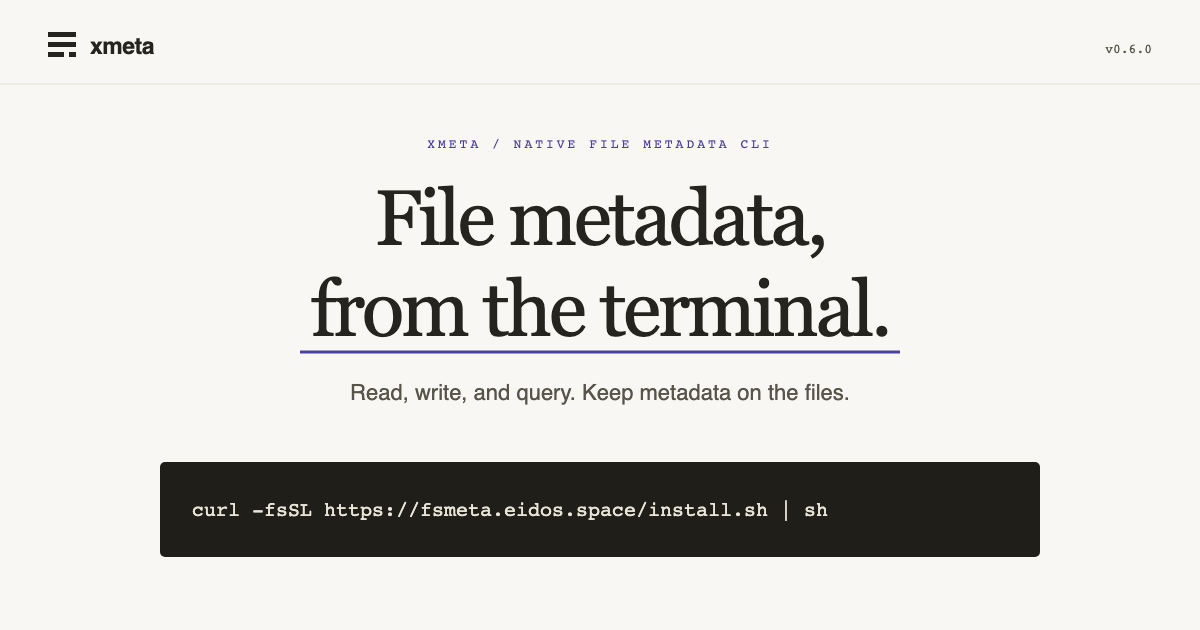
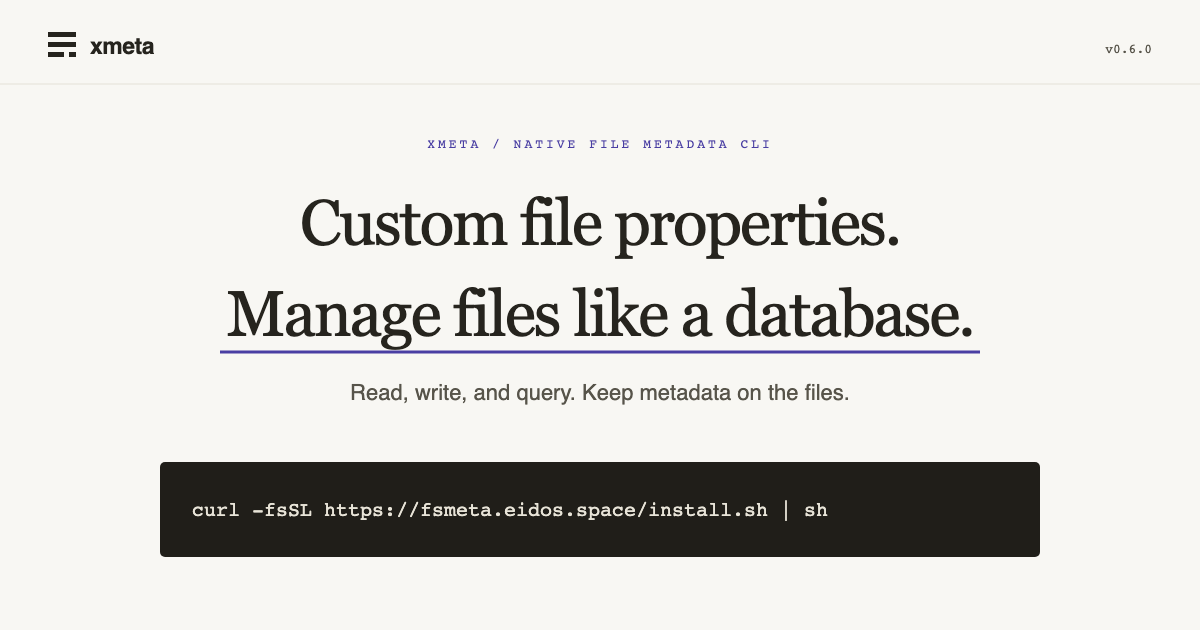
feat(site): show a terminal walkthrough for file properties

Changed region(s): [[0.185, 0.4222, 0.8325, 0.573], [0.2467, 0.3016, 0.7708, 0.4222]]

diff --git a/site/src/scripts/product-demo.ts b/site/src/scripts/product-demo.ts
@@ -1,6 +1,7 @@
 document.querySelectorAll<HTMLElement>("[data-product-demo]").forEach((root) => {
   const tabs = [...root.querySelectorAll<HTMLButtonElement>("[data-demo-step]")];
-  const panels = [...root.querySelectorAll<HTMLElement>("[data-demo-panel]")];
+  const panels = [...root.querySelectorAll<HTMLElement>("[data-demo-block]")];
+  const viewport = root.querySelector<HTMLElement>("[data-demo-viewport]")!;
   const captions = [...root.querySelectorAll<HTMLElement>("[data-demo-caption]")];
   const toggle = root.querySelector<HTMLButtonElement>("[data-demo-toggle]")!;
   const reducedMotion = window.matchMedia("(prefers-reduced-motion: reduce)");
@@ -10,10 +11,12 @@ document.querySelectorAll<HTMLElement>("[data-product-demo]").forEach((root) => 
   let timer: number | undefined;
   let frame: number | undefined;
   let progress: Animation | undefined;
-  const duration = 7500;
+  const durations = [2400, 4200, 4200, 7000];
+  const scrollToLatest = () => { viewport.scrollTop = viewport.scrollHeight; };
 
   const finishTyping = () => {
     window.cancelAnimationFrame(frame ?? 0);
+    root.dataset.typing = "false";
     panels.forEach((panel) => {
       const command = panel.querySelector<HTMLElement>("[data-demo-command]")!;
       command.textContent = command.dataset.source ?? "";
@@ -33,6 +36,7 @@ document.querySelectorAll<HTMLElement>("[data-product-demo]").forEach((root) => 
     root.querySelector<SVGElement>("[data-pause-icon]")!.style.display = playing ? "" : "none";
     root.querySelector("[data-pause-icon]")!.removeAttribute("hidden");
     if (!active) return;
+    const duration = durations[scene];
     if (!reducedMotion.matches)
       progress = tabs[scene]
         .querySelector<HTMLElement>(".step-progress")!
@@ -48,28 +52,25 @@ document.querySelectorAll<HTMLElement>("[data-product-demo]").forEach((root) => 
     scene = index;
     root.dataset.scene = String(index);
     tabs.forEach((tab, i) => {
-      tab.setAttribute("aria-selected", String(i === index));
+      if (i === index) tab.setAttribute("aria-current", "step");
+      else tab.removeAttribute("aria-current");
       tab.tabIndex = i === index ? 0 : -1;
     });
     panels.forEach((panel, i) => {
-      panel.hidden = i !== index;
+      panel.hidden = i > index;
     });
     captions.forEach((caption, i) => {
       caption.hidden = i !== index;
     });
-    root
-      .querySelectorAll<HTMLElement>("[data-demo-file]")
-      .forEach((file, i) =>
-        file.classList.toggle("is-selected", index === 2 ? i < 3 : index === 0 && i === 0),
-      );
     const panel = panels[index];
     if (animate && !reducedMotion.matches) {
       const command = panel.querySelector<HTMLElement>("[data-demo-command]")!;
       const source = command.dataset.source ?? "";
       const started = performance.now();
-      const typingDuration = Math.min(1500, source.length * 14);
+      const typingDuration = Math.min(1100, source.length * 14);
       command.textContent = "";
       command.dataset.typing = "true";
+      root.dataset.typing = "true";
       panel.dataset.complete = "false";
       const type = (now: number) => {
         const count = Math.min(
@@ -81,10 +82,13 @@ document.querySelectorAll<HTMLElement>("[data-product-demo]").forEach((root) => 
         else {
           command.removeAttribute("data-typing");
           panel.dataset.complete = "true";
+          root.dataset.typing = "false";
         }
+        scrollToLatest();
       };
       frame = window.requestAnimationFrame(type);
     }
+    scrollToLatest();
     schedule();
   }
 
@@ -109,7 +113,12 @@ document.querySelectorAll<HTMLElement>("[data-product-demo]").forEach((root) => 
   });
   toggle.addEventListener("click", () => {
     playing = !playing;
-    if (!playing) finishTyping();
+    if (!playing) { finishTyping(); scrollToLatest(); }
+    schedule();
+  });
+  viewport.addEventListener("pointerdown", () => {
+    playing = false;
+    finishTyping();
     schedule();
   });
   root.querySelector<HTMLButtonElement>("[data-demo-replay]")!.addEventListener("click", () => {

diff --git a/site/src/data/demo.ts b/site/src/data/demo.ts
@@ -1,61 +1,59 @@
-export const demoCommands = [
-  "xmeta set notes/launch.md \\\n  status=Active rating:=5 --print",
-  'xmeta schema set ./notes \\\n  "rating INTEGER, status TEXT"',
-  'xmeta query ./notes \\\n  "SELECT id, rating, status FROM files\n   WHERE is_dir = 0 AND rating >= 4\n   ORDER BY rating DESC"',
-];
-
-export const demoFiles = ["launch.md", "design.md", "reading.md", "archive.md"];
-export const demoRows = [
-  { name: "launch.md", rating: 5, status: "Active" },
-  { name: "reading.md", rating: 5, status: "Active" },
-  { name: "design.md", rating: 4, status: "Draft" },
+export const demoScenes = [
+  {
+    command: "ls notes",
+    output: "draft.md  ideas.md  plan.md  readme.md",
+  },
+  {
+    command: "xmeta set notes/plan.md status=Active rating:=5 --print",
+    output: '{\n  "rating": 5,\n  "status": "Active"\n}',
+  },
+  {
+    command: 'xmeta schema set notes "rating INTEGER, status TEXT" --json',
+    output: '{"fields":[{"name":"rating","type":"INTEGER"},{"name":"status","type":"TEXT"}],"version":1}',
+  },
+  {
+    command: 'xmeta query notes "SELECT id, rating, status FROM files WHERE is_dir = 0 AND rating >= 4 ORDER BY rating DESC"',
+    output: "id\trating\tstatus\nplan.md\t5\tActive\n1 row(s)",
+  },
 ];
 
 export const demoMessages = {
   en: {
     label: "See how it works",
     sample: "Product demo",
-    files: "Files",
-    fileCount: "4 files",
-    stored: "Stored on the file",
-    steps: ["Write properties", "Declare fields", "Query files"],
+    steps: ["List files", "Write properties", "Declare fields", "Query files"],
     captions: [
-      "Attach typed properties to a file, right from the shell.",
-      "Save field definitions on the folder itself, ready for the next query.",
-      "Query with xmeta. SQLite and the extension are already built in.",
+      "Start with the files you already have.",
+      "Add your own typed properties, right from the shell.",
+      "Save field definitions on the folder itself.",
+      "Filter and sort your files with SQL. SQLite is built in.",
     ],
-    saved: "Properties saved to notes/launch.md",
-    created: "Saved to the folder's space.eidos.meta.schema attribute.",
-    result: "3 rows",
-    results: "Example SQL query results",
+    transcript: "Example terminal session",
+    command: "Example command",
+    output: "Command output",
     pause: "Pause demo",
     play: "Play demo",
-    replay: "Replay demo",
-    sequence: "Demo scenes",
-    command: "Example command",
+    replay: "Replay from ls",
+    sequence: "Demo steps",
     data: "Illustrative commands and results",
   },
   zh: {
     label: "看看它如何工作",
     sample: "产品演示",
-    files: "文件",
-    fileCount: "4 个文件",
-    stored: "属性随文件保存",
-    steps: ["写入属性", "声明字段", "查询文件"],
+    steps: ["查看文件", "写入属性", "声明字段", "查询文件"],
     captions: [
-      "用一条命令，为文件写入有类型的属性。",
-      "字段定义保存在文件夹自身，下次查询时自动读取。",
-      "直接用 xmeta 查询，SQLite 和扩展已内置。",
+      "从已有文件开始。",
+      "在命令行中，为文件添加自定义属性。",
+      "字段定义保存在文件夹自身。",
+      "用 SQL 筛选、排序文件。SQLite 已内置。",
     ],
-    saved: "属性已保存到 notes/launch.md",
-    created: "已保存到文件夹的 space.eidos.meta.schema 扩展属性。",
-    result: "3 行结果",
-    results: "SQL 查询结果示例",
+    transcript: "命令行会话示例",
+    command: "命令示例",
+    output: "命令输出",
     pause: "暂停演示",
     play: "播放演示",
-    replay: "重新播放",
+    replay: "从 ls 重新播放",
     sequence: "演示步骤",
-    command: "命令示例",
     data: "命令与结果均为示意",
   },
 };

diff --git a/site/src/data/i18n.ts b/site/src/data/i18n.ts
@@ -7,7 +7,7 @@ export function localePath(locale: Locale, base = "/") {
 const en = {
   lang: "en",
   ogLocale: "en_US",
-  title: "xmeta — File metadata, from the terminal.",
+  title: "xmeta — Custom file properties. Manage files like a database.",
   description:
     "Read, write, and query file metadata with xmeta. Folder schemas, built-in SQLite, and native xattr / ADS storage for macOS, Linux, and Windows.",
   skip: "Skip to content",
@@ -28,10 +28,10 @@ const en = {
   },
   hero: {
     eyebrow: "xmeta / native file metadata CLI",
-    title: ["File metadata,", "from the terminal."],
+    title: ["Custom file properties.", "Manage files like a database."],
     description: [
-      "Read, write, and query file metadata with ",
-      ". SQLite is built in. Your files stay the source of truth.",
+      "Add fields, update properties, and query files with ",
+      ". Metadata stays with your files. SQLite is built in.",
     ],
     install: "Install xmeta",
     docs: "Read the docs",
@@ -76,7 +76,7 @@ const en = {
 const zh: typeof en = {
   lang: "zh-CN",
   ogLocale: "zh_CN",
-  title: "xmeta — 在命令行读写与查询文件元数据。",
+  title: "xmeta — 自定文件属性，用数据库的方式管理文件",
   description:
     "用 xmeta 读写文件属性、配置文件夹 schema、运行 SQL 查询。内置 SQLite，适用于 macOS、Linux 和 Windows。",
   skip: "跳转到正文",
@@ -97,8 +97,8 @@ const zh: typeof en = {
   },
   hero: {
     eyebrow: "xmeta / 原生文件元数据 CLI",
-    title: ["文件元数据，", "从命令行开始。"],
-    description: ["用 ", " 读写文件属性、配置字段、运行 SQL 查询。SQLite 已内置，安装即可使用。"],
+    title: ["自定文件属性，", "用数据库的方式管理文件"],
+    description: ["用 ", " 配置字段、读写属性、运行 SQL 查询。元数据随文件保存，SQLite 已内置。"],
     install: "安装 xmeta",
     docs: "阅读文档",
   },

diff --git a/site/README.md b/site/README.md
@@ -72,11 +72,11 @@ source reference.
 
 ## Product demonstration
 
-The Hero tells a three-scene CLI story: attach typed properties with xmeta,
-save the folder's fields with schema set, then filter and sort with query. A
-scripted terminal, folder tree, property labels, and result table move together.
-Visitors can switch scenes, pause, and replay. Commands and results are curated
-examples; the demonstration does not execute input or access local files.
+The Hero shows one terminal session: list existing files with `ls`, attach typed
+properties with `xmeta set`, save folder fields with `schema set`, then filter
+and sort with `query`. Commands and plain-text output accumulate in the same
+scrolling terminal. Visitors can skip to a command, pause, and replay. Commands
+and results are curated examples; the demo does not execute input or access files.
 
 Playback starts only when the demo is visible, pauses when the page is hidden,
 and respects reduced motion. The first scene is readable without JavaScript.
